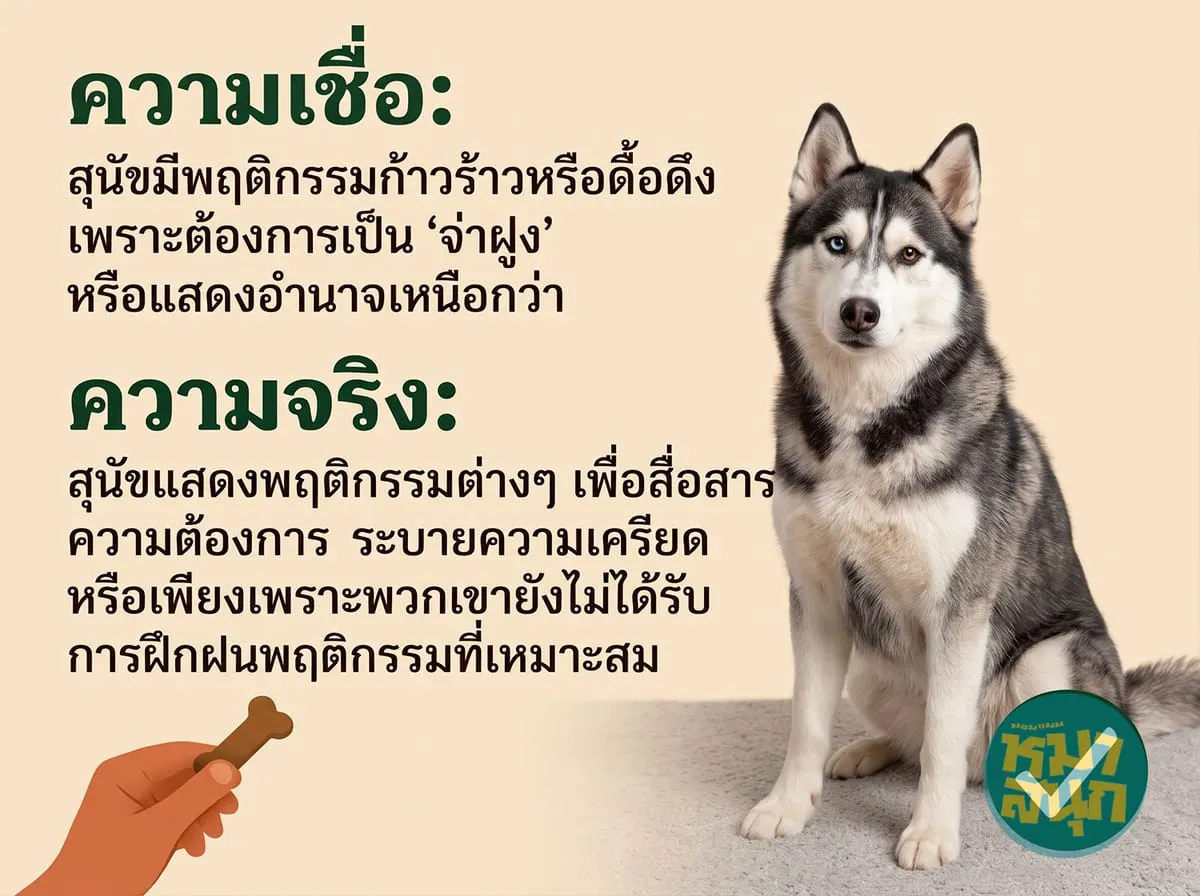
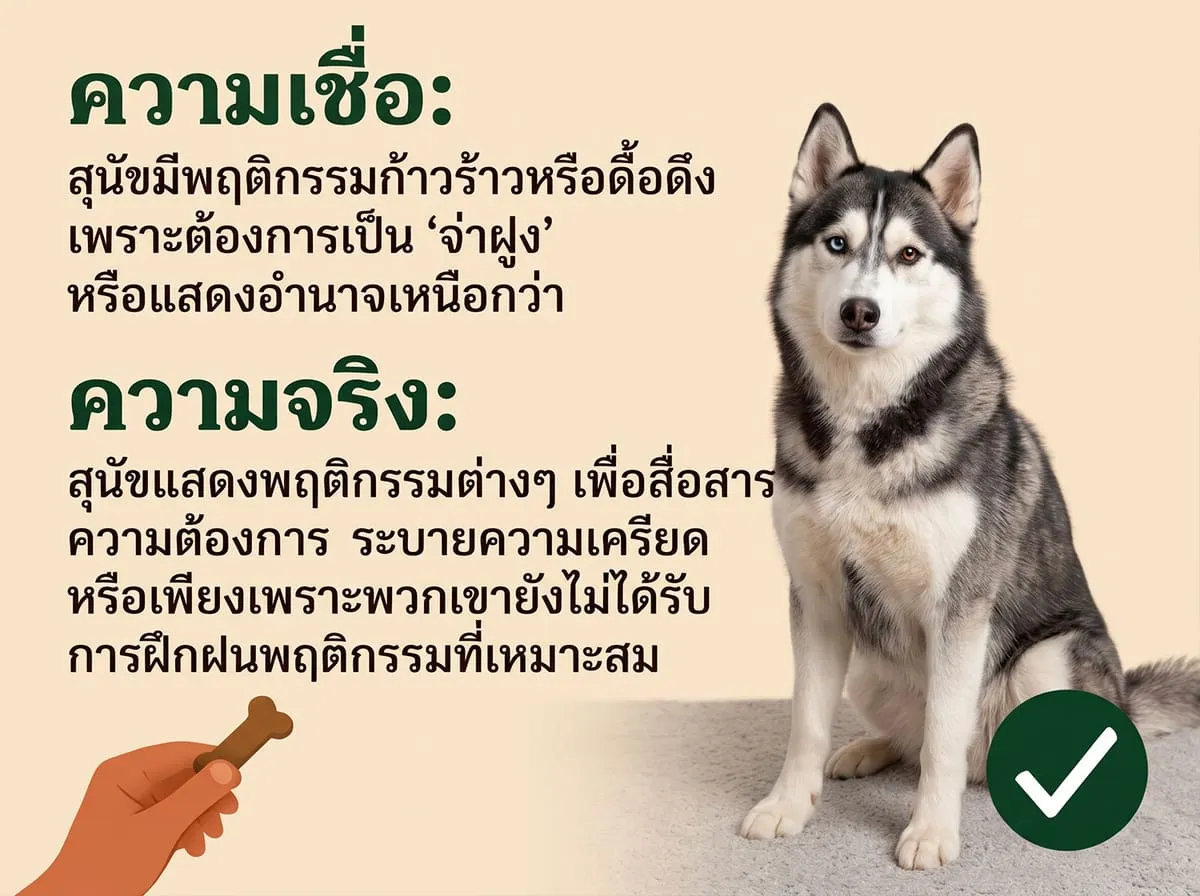
Replace dominance-myth hero image (#156)
Swap the hero for the version without the logo overlapping the green
checkmark, and fix the hero alt text to describe the actual infographic.

Claude-Session: https://claude.ai/code/session_01RSCH2WQT1HKAQcuMrYpLY1

Changed region(s): [[0.8017, 0.75, 0.9558, 0.9688]]

diff --git a/src/content/blog/dog-dominance-myth.md b/src/content/blog/dog-dominance-myth.md
@@ -5,7 +5,7 @@ category: "วิทยาศาสตร์การฝึกหมา"
 pubDate: 2026-11-19
 heroImage: "/uploads/dog-dominance-myth.jpg"
 heroRatio: "4/3"
-heroAlt: "เจ้าของนั่งอยู่กับน้องหมาบนพื้นอย่างผ่อนคลายและไว้ใจกัน ไม่ใช่การข่มหรือบังคับ ภาพประกอบเรื่องความเชื่อผิดเรื่องจ่าฝูง (dominance) ในการฝึกสุนัข"
+heroAlt: "ภาพประกอบเปรียบเทียบความเชื่อกับความจริงเรื่องจ่าฝูง (dominance) ในการฝึกสุนัข — สุนัขไซบีเรียนฮัสกี้นั่งข้างมือที่ยื่นขนมให้ สื่อถึงการฝึกเชิงบวกไม่ดุไม่บังคับ"
 draft: false
 ---
 
